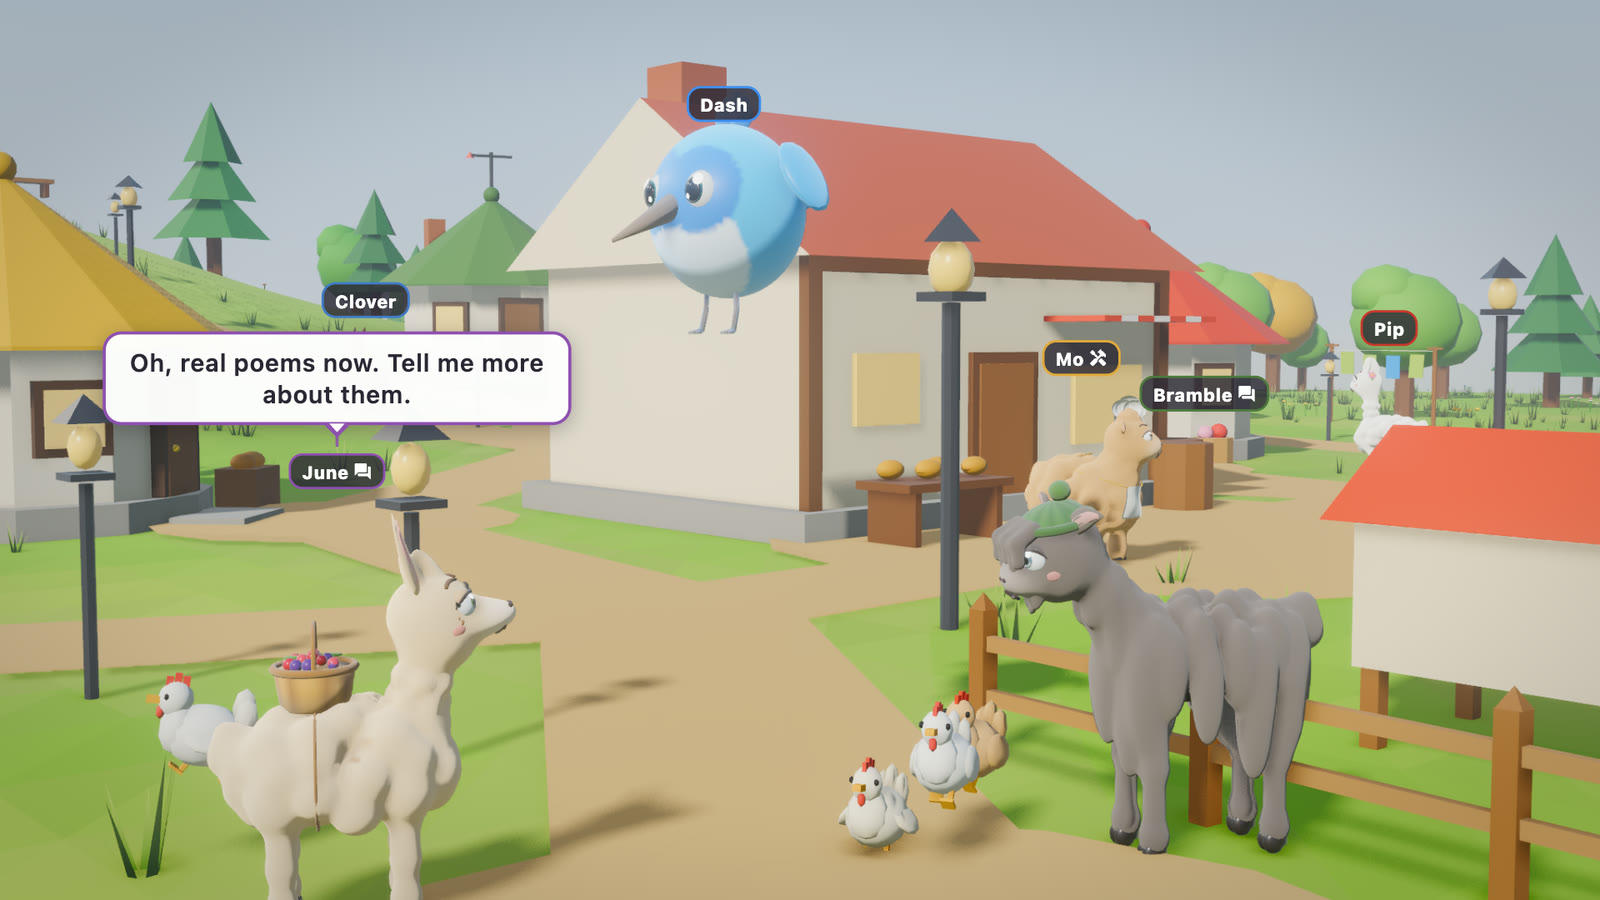
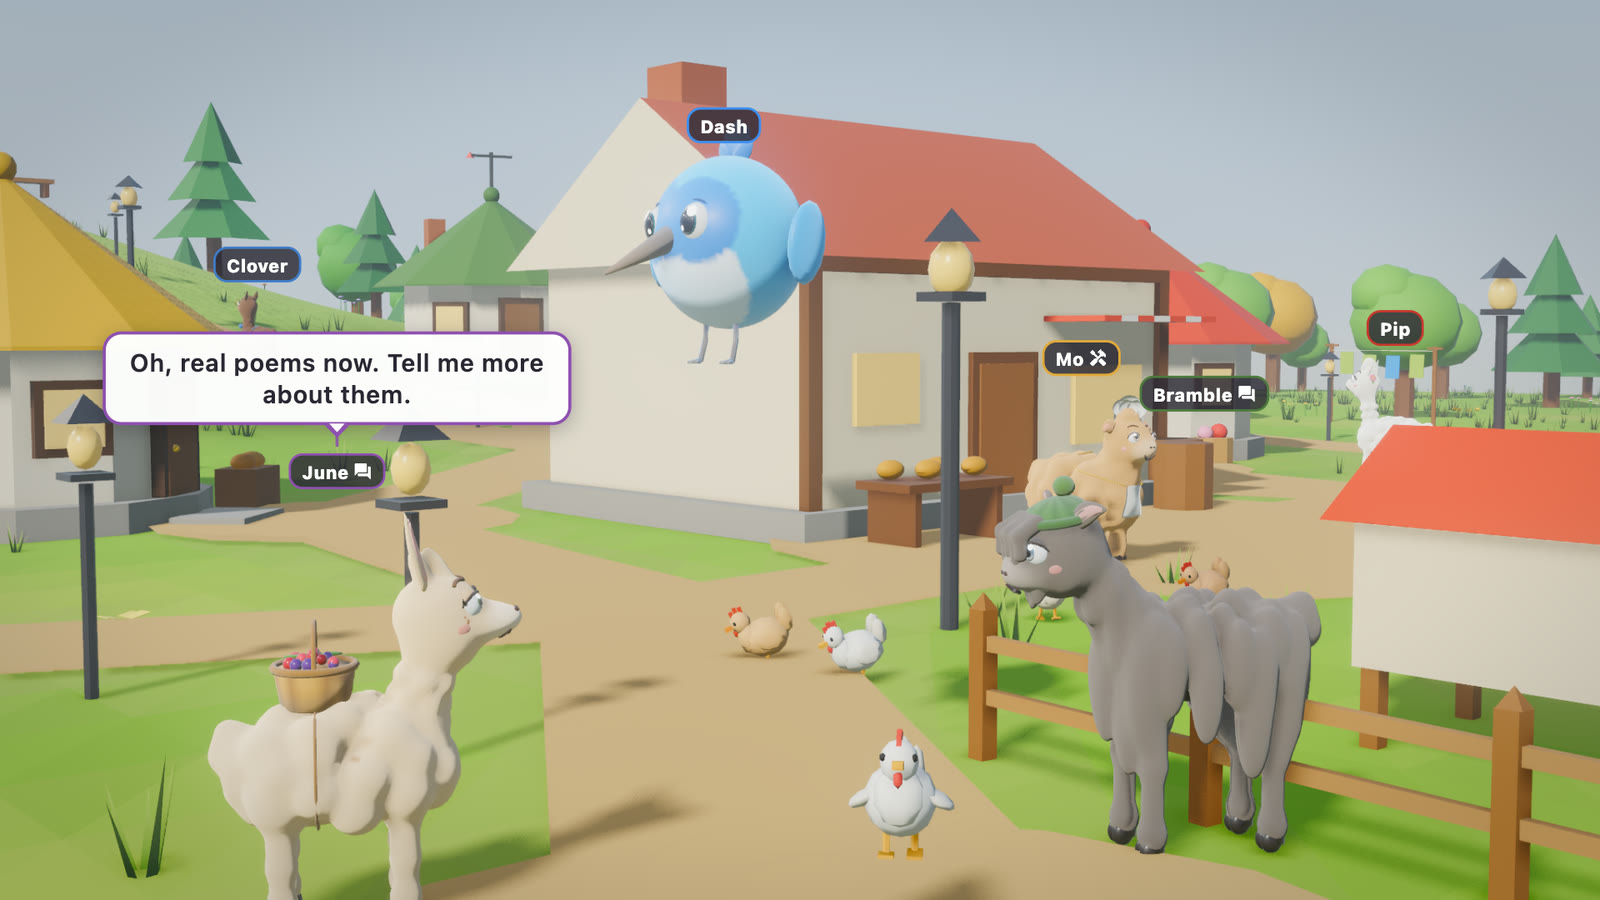
Retake the README header GIF and three screenshots from the jitter-free frames, and link the trailer
The header GIF and the conversation, inspector and storm stills came from
frames rendered before character clips were stepped by game time, so the
GIF strobed and the stills caught kinked necks and odd gallops.

diff --git a/README.md b/README.md
@@ -1,11 +1,11 @@
 # Llama Village
 
-![Llama Village: the village from above, Bramble and June talking, Dash's options and the festival spotlight](docs/media/header.gif)
+![Llama Village: June and Bramble trade lines in speech bubbles by the bakery while Dash flies in and the chickens wander](docs/media/header.gif)
 
 A small 3D village of AI llamas that live their own lives while you watch
 and meddle as Dash, a little blue bird, over one Festival Week.
 
-**Trailer:** coming soon on the [Releases](https://github.com/leehack/llama-village/releases) page.
+**Trailer:** watch it on the [v0.1.0-preview release](https://github.com/leehack/llama-village/releases/tag/v0.1.0-preview).
 
 Five llamas (Pip, Mo, June, Bramble and Clover) each have a persona, needs,
 friendships, goals and secrets. They plan their day, walk the paths
